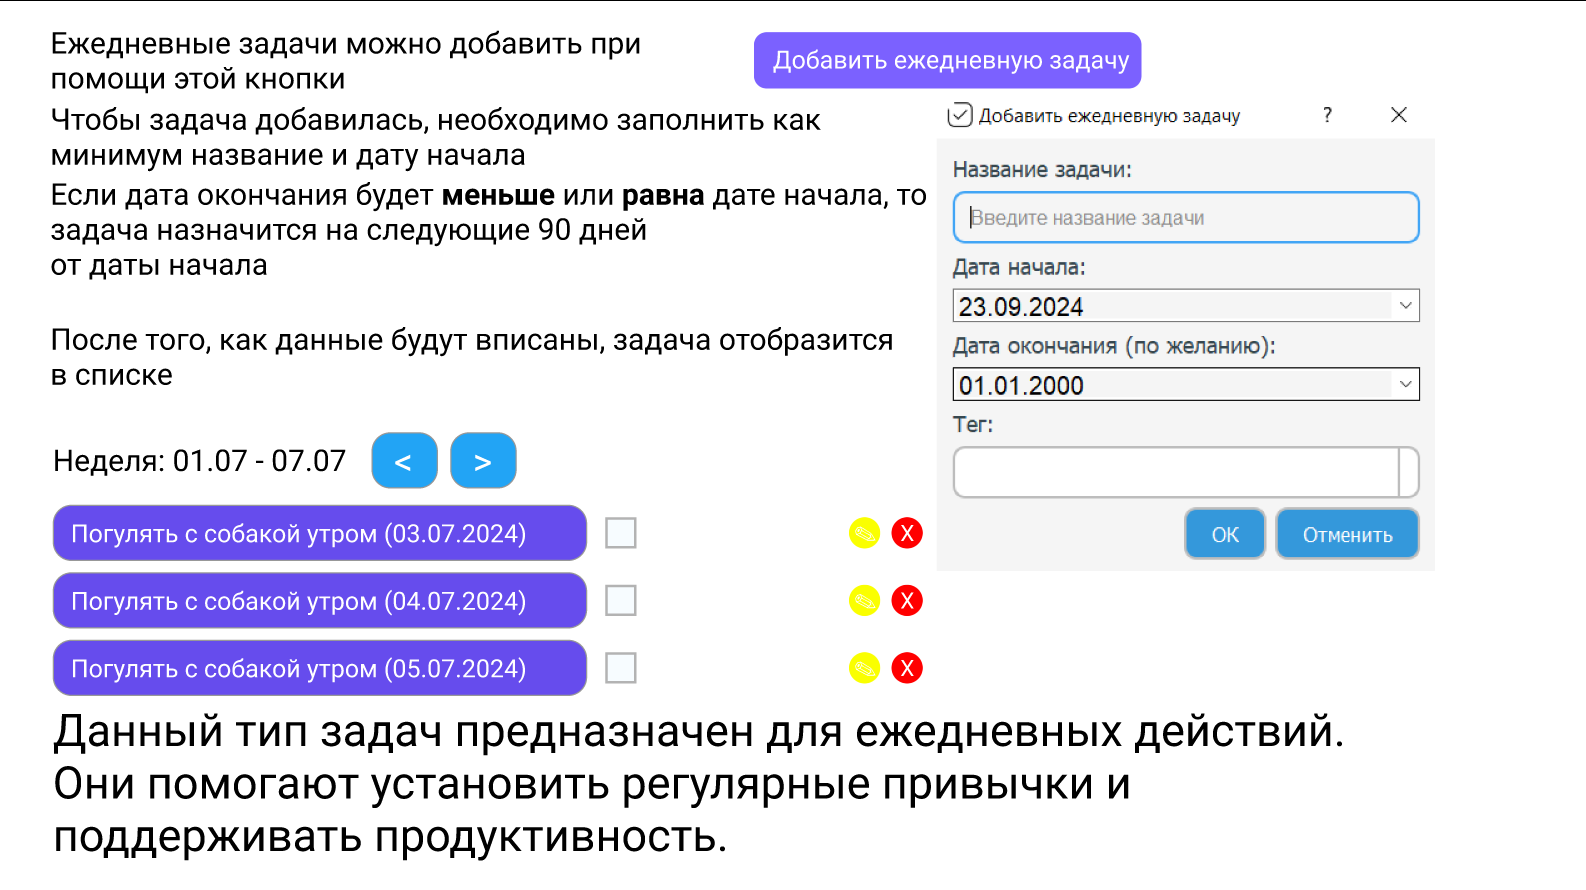
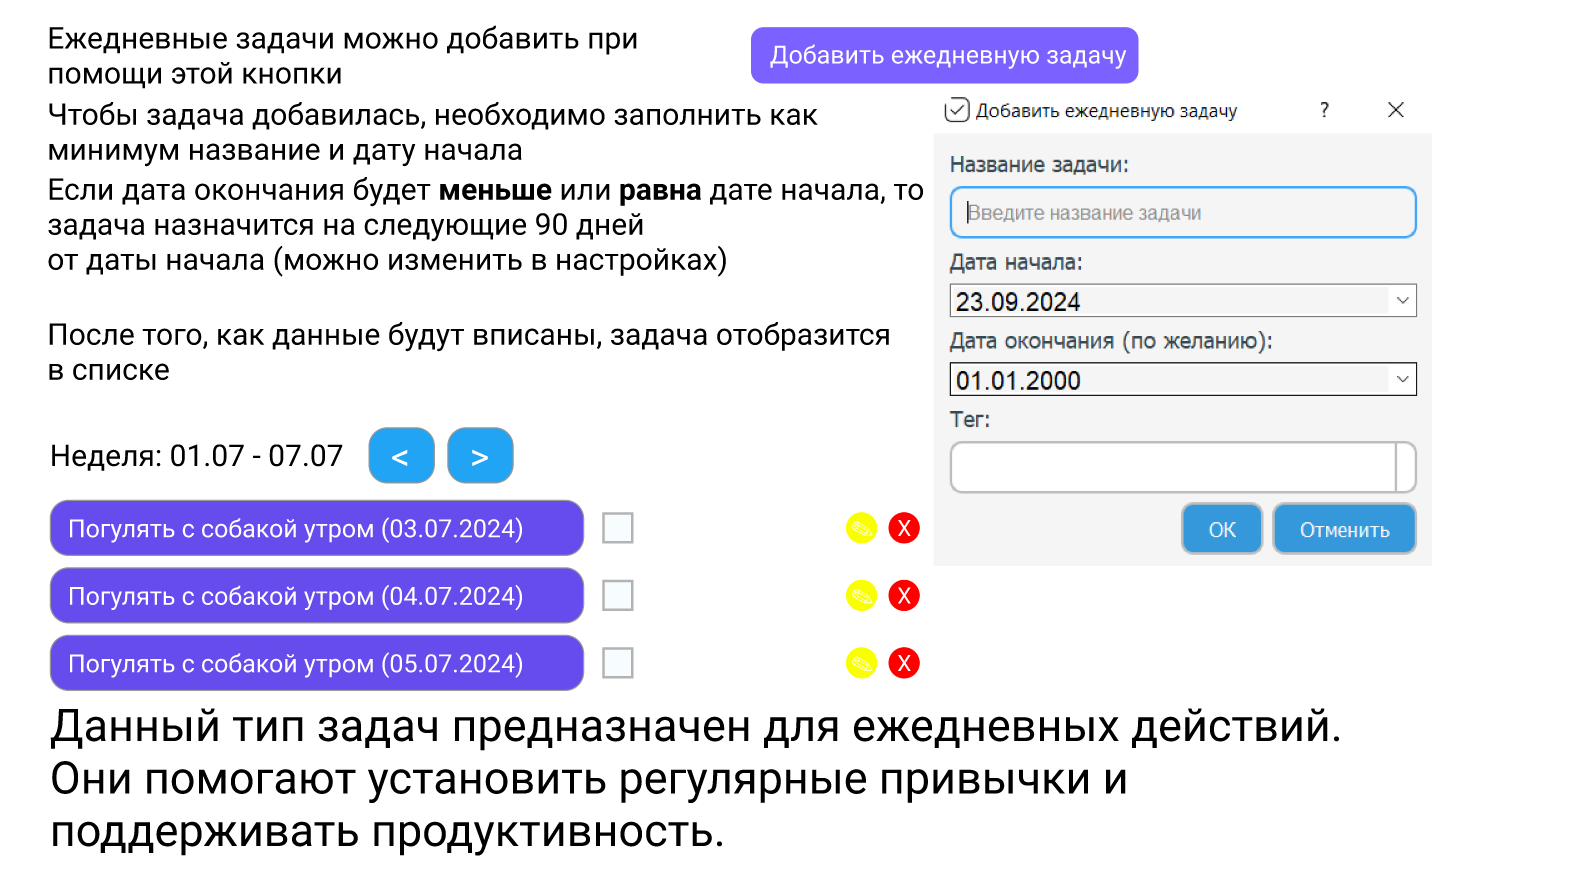
fix week_label deleting

diff --git a/TODOPyQT/TODOPyQT.py b/TODOPyQT/TODOPyQT.py
@@ -98,9 +98,9 @@ class MainWin(QMainWindow):
             self.default_task_days = 90
 
     def save_days_setting(self):
-        days_value = self.days_spinbox.value()  # Get the value from the spin box
+        days_value = self.days_spinbox.value()
 
-        if days_value >= 1 and days_value <= 365:  # Check if the value is within the valid range
+        if days_value >= 1 and days_value <= 365:
             self.default_task_days = days_value
             self.save_settings()
             QMessageBox.information(self, "Успешно", "Настройка дней сохранена.")
@@ -425,8 +425,10 @@ class MainWin(QMainWindow):
 
         self.scroll_area.setWidget(tasks_widget)
 
-        self.week_label = QLabel(self)
-        self.week_label.setGeometry(20, 20, 200, 30)
+        if not hasattr(self, 'week_label'):
+            print("Создаем week_label")
+            self.week_label = QLabel(self)
+            self.week_label.setGeometry(20, 20, 200, 30)
         self.update_week_label()
         self.week_label.show()
 
@@ -599,11 +601,10 @@ class MainWin(QMainWindow):
         task_types_layout.addLayout(task_types_horizontal_layout)
         main_layout.addWidget(task_types_group_box)
 
-        days_group_box = QGroupBox("Настройка дней для автоматической задачи")
+        days_group_box = QGroupBox("Настройка дней, если дата окончания задачи меньше или равна дате начала")
         days_layout = QVBoxLayout()
         days_group_box.setLayout(days_layout)
 
-        # Create a horizontal layout for the label, spin box, and button
         days_horizontal_layout = QHBoxLayout()
 
         days_label = QLabel("Введите количество дней, на которые будет добавлена задача (по умолчанию 90):")
@@ -625,7 +626,6 @@ class MainWin(QMainWindow):
         save_button.clicked.connect(self.save_days_setting)
         days_horizontal_layout.addWidget(save_button)
 
-        # Add the horizontal layout to the days layout
         days_layout.addLayout(days_horizontal_layout)
 
         main_layout.addWidget(days_group_box)
@@ -685,7 +685,6 @@ class MainWin(QMainWindow):
         help_dialog = HelpDialog(self)
         help_dialog.exec_()
 
-
     def show_task_full_title(self, task_name):
         wrapped_task_name = wrap_text(task_name, 100)
         QMessageBox.information(self, 'Полное название задачи', wrapped_task_name)
@@ -698,8 +697,26 @@ class MainWin(QMainWindow):
         self.current_week_end = end_of_week
 
     def update_week_label(self):
-        week_str = f"{self.current_week_start.strftime('%d.%m')} - {self.current_week_end.strftime('%d.%m')}"
-        self.week_label.setText(f"Неделя: {week_str}")
+        if self.week_label:
+            week_str = f"{self.current_week_start.strftime('%d.%m')} - {self.current_week_end.strftime('%d.%m')}"
+            self.week_label.setText(f"Неделя: {week_str}")
+        else:
+            print("Ошибка: week_label не существует.")
+
+    def go_to_week(self, task_date):
+        try:
+            task_date_obj = datetime.datetime.strptime(task_date, '%d.%m.%Y').date()
+
+            self.current_week_start = task_date_obj - datetime.timedelta(days=task_date_obj.weekday())
+            self.current_week_end = self.current_week_start + datetime.timedelta(days=6)
+            if not hasattr(self, 'week_label') or self.week_label is None:
+                self.week_label = QLabel(self)
+                self.week_label.setGeometry(20, 20, 200, 30)
+
+            self.update_week_label()
+            self.update_task_layout()
+        except ValueError:
+            QMessageBox.warning(self, 'Ошибка', 'Некорректный формат даты.')
 
     def previous_week(self):
         self.current_week_start -= datetime.timedelta(days=7)
@@ -966,7 +983,6 @@ class MainWin(QMainWindow):
             try:
                 start_date = datetime.datetime.strptime(start_date_str, '%d.%m.%Y').date()
 
-                # Calculate end_date based on default_task_days
                 end_date = start_date + datetime.timedelta(days=self.default_task_days - 1)
 
             except ValueError:
@@ -977,7 +993,7 @@ class MainWin(QMainWindow):
                 "name": task_name,
                 "completed": False,
                 "start_date": start_date_str,
-                "end_date": end_date.strftime('%d.%m.%Y'),  # Ensure end_date is formatted correctly
+                "end_date": end_date.strftime('%d.%m.%Y'),
                 "tag": tag,
                 "completed_dates": []
             }
@@ -1012,14 +1028,14 @@ class MainWin(QMainWindow):
                 return
 
             try:
-                start_date = datetime.datetime.strptime(start_date_str, '%d.%m.%Y').date()  # Correct format
+                start_date = datetime.datetime.strptime(start_date_str, '%d.%m.%Y').date()
                 if end_date_str:
-                    end_date = datetime.datetime.strptime(end_date_str, '%d.%m.%Y').date()  # Correct format
+                    end_date = datetime.datetime.strptime(end_date_str, '%d.%m.%Y').date()
                 else:
-                    end_date = start_date + datetime.timedelta(weeks=self.default_task_days // 7)  # Default to weeks
+                    end_date = start_date + datetime.timedelta(weeks=self.default_task_days // 7)
 
                 if end_date <= start_date:
-                    end_date = start_date + datetime.timedelta(weeks=1)  # Ensure at least one week duration
+                    end_date = start_date + datetime.timedelta(weeks=1)
             except ValueError:
                 QMessageBox.warning(self, 'Ошибка', 'Неверный формат даты. Используйте дд.мм.гггг.')
                 return
@@ -1040,6 +1056,7 @@ class MainWin(QMainWindow):
             self.scroll_area.show()
 
             print(f"Добавлена новая еженедельная задача: {new_task}")
+
     def handle_button_click(self, button_index=None):
         self.current_button_index = button_index
         self.main_screen()
@@ -1190,9 +1207,16 @@ class MainWin(QMainWindow):
             QMessageBox.warning(self, 'Ошибка', f'Ошибка при удалении задачи: {e}')
 
     def clear_window(self, keep_main_buttons=False, keep_labels=False):
+        print("Очистка окна...")
         widgets_to_keep = [self.search_button] + self.buttons if keep_main_buttons else []
-        if keep_labels:
-            widgets_to_keep.extend([self.text_high, self.text_low])
+
+        if keep_labels and hasattr(self, 'week_label'):
+            print("Сохраняем week_label")
+        else:
+            if hasattr(self, 'week_label'):
+                print("Удаляем week_label")
+                self.week_label.deleteLater()  # Убедитесь, что это вызывается только если вы хотите удалить его
+                del self.week_label  # Удаляем ссылку на объект, чтобы избежать повторного доступа
 
         for widget in self.findChildren(QtWidgets.QWidget):
             if widget not in widgets_to_keep:
